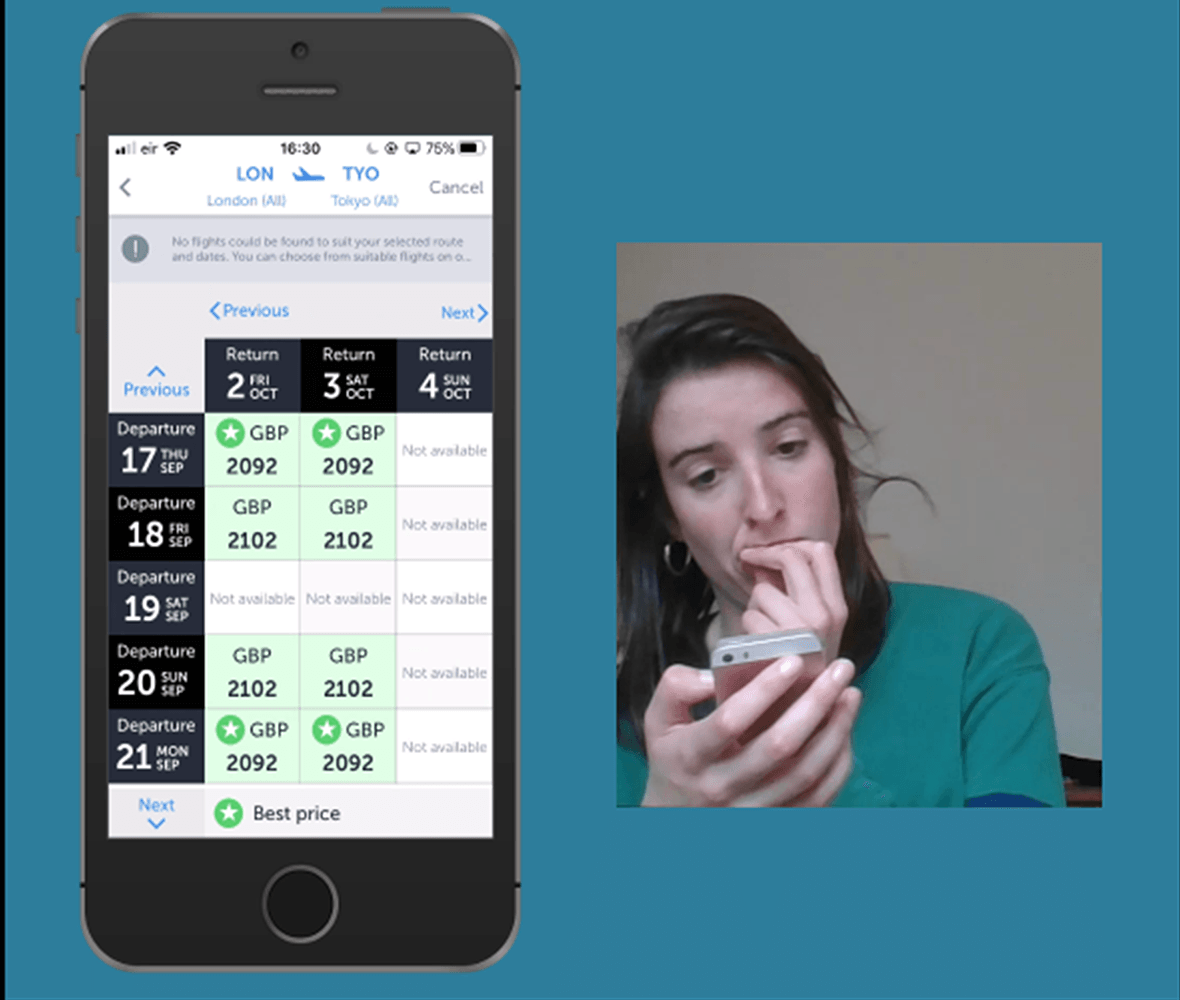
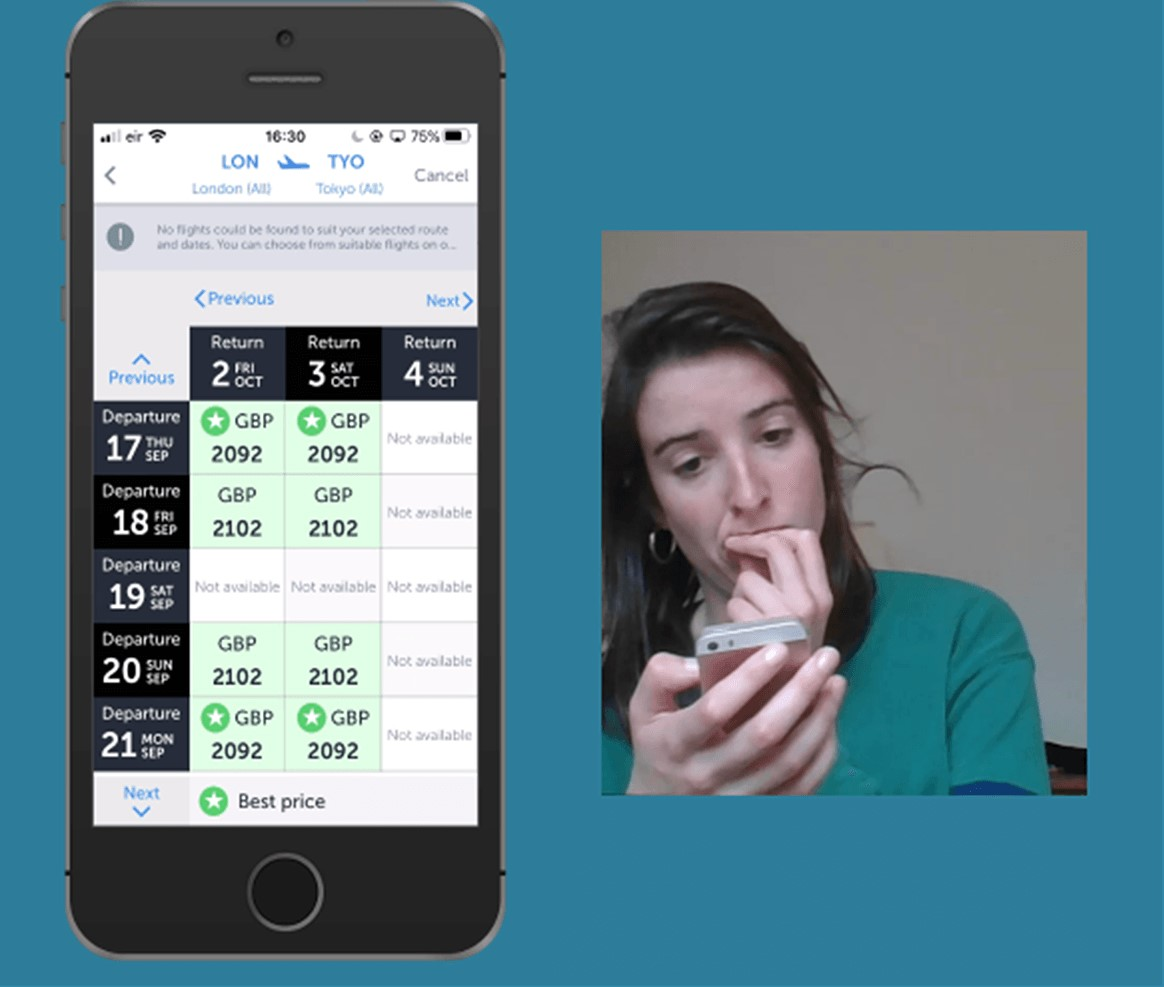
Style:Add images to animations

diff --git a/src/client/views/flyux.html b/src/client/views/flyux.html
@@ -93,9 +93,9 @@
                </div>
      
       <article >
-         <div class="user_img_parent" ><div class="user_test_images"></div></div>
+         <div class="user_img_parent" ><div id="megan"></div></div>
          <div class="left_text"> 
-            <p><br><br><q>Usually the less you click the better, so you don't get charged more</q>
+            <p><br><br><br><q>Usually the less you click the better, so you don't get charged more</q>
             -User 1 expressing a skepticism while booking flight extras</p>
             </div>
 
@@ -109,9 +109,9 @@
          </div>
 
          <section >
-            <div class="user_img_parent" ><div class="user_test_images"></div></div>
+            <div class="user_img_parent" ><div id="fionnuala"></div></div>
             <div class="left_text"> 
-               <p><br><br><q>They might have a 'Would you like to edit this?' here</p><p>
+               <p><br><br><br><q>They might have a 'Would you like to edit this?' here</p><p>
                   -User 2 expresses a wish for a feature that would've let her know
                   that her trip was now shorter due to lack of availability for desired dates.
                </p>
@@ -119,19 +119,24 @@
             </section>
 
             <div class="quote">
-               <q>Where's the cheap flights, thanks!</q>
-                     <p>-User 1 on the importance of price</p>
+               <q>Become a 'Miles and Smiles' member? That sounds like a dental programme so I'm going to avoid that!</q>
+                     <p>-User 2 on signing up to an airline membership programme</p>
                      </div>
 
             <article>
-               <div class="user_img_parent" ><div class="user_test_images"></div></div>
+               <div class="user_img_parent" ><div id="michele"></div></div>
                <div class="left_text"> 
-                  <p><br><br><q>Usually the less you click the better, so you don't get charged more</q>
-                  -User 1 expressing a skepticism while booking flight extras</p>
+                  <p><br><br><br><q>I'm really annoyed because it doesn't tell me where my stopover is!</q>
+                  -User 3 on being frustrated at the lack of forthcoming important information</p>
                   </div>
               
       
                </article>
+
+               <div class="quote">
+                  <q>I'll enter 'Ms.' - I never enter anything else</q>
+                        <p>-User 3 completing personal detail forms</p>
+                        </div>
 
         <div class="section_title"><h2>Analysis</h2>
          <p>Lorem Ipsum is simply dummy text of the printing and typesetting industry. 

diff --git a/src/client/styles/flyux.scss b/src/client/styles/flyux.scss
@@ -90,6 +90,7 @@ img{
 
 .project_main{
     background-color: white;
+    border-top: 2px double $flyux;
    
 }
 
@@ -101,11 +102,55 @@ img{
     box-shadow:5px 10px 10px 10px rgb(138, 157, 160);
 }
 
-.user_test_images{
+#megan, #fionnuala, #michele{
     width: 100%;
     height:100%;
    // border-radius: 8px;
-    animation-name:user;
+}
+
+#megan{
+    animation-name:megan;
+    background-size:contain;
+    background-repeat:no-repeat;
+    animation-duration:6s;
+    animation-iteration-count: infinite;
+    -webkit-animation-timing-function: steps(1,end);
+    animation-timing-function: steps(1,end);
+}
+
+@keyframes megan{
+    0%{background-image:url("../media/Megan_1.png");}
+    20%{background-image:url("../media/Megan_2.png");}
+    40%{background-image:url("../media/Megan_3.png");}
+    60%{background-image:url("../media/Megan_4.png");}
+    80%{background-image:url("../media/Megan_5.png");}
+    100%{background-image:url("../media/Megan_6.png");}
+
+}
+
+#fionnuala{
+    animation-name:fionnuala;
+    background-size:contain;
+    background-repeat:no-repeat;
+    animation-duration:5s;
+    animation-iteration-count: infinite;
+    -webkit-animation-timing-function: steps(1,end);
+    animation-timing-function: steps(1,end);
+
+}
+
+@keyframes fionnuala{
+    0%{background-image:url("../media/Fionnuala_1.png");}
+    25%{background-image:url("../media/Fionnuala_2.png");}
+    50%{background-image:url("../media/Fionnuala_3.png");}
+    75%{background-image:url("../media/Fionnuala_4.png");}
+    100%{background-image:url("../media/Fionnuala_5.png");}
+   
+
+}
+
+#michele{
+    animation-name:michele;
     background-size:contain;
     background-repeat:no-repeat;
     animation-duration:10s;
@@ -114,12 +159,14 @@ img{
     animation-timing-function: steps(1,end);
 }
 
-@keyframes user{
-    0%{background-image:url("../media/Fionnuala_3.png");}
-    25%{background-image:url("../media/Fionnuala_1.png");}
-    50%{background-image:url("../media/Fionnuala_2.png");}
-    75%{background-image:url("../media/Fionnuala_3.png");}
-    100%{background-image:url("../media/Fionnuala_1.png");}
+@keyframes megan{
+    0%{background-image:url("../media/Megan_1.png");}
+    20%{background-image:url("../media/Megan_2.png");}
+    40%{background-image:url("../media/Megan_3.png");}
+    60%{background-image:url("../media/Megan_4.png");}
+    80%{background-image:url("../media/Megan_5.png");}
+    100%{background-image:url("../media/Megan_6.png");}
+
 }
 
 
